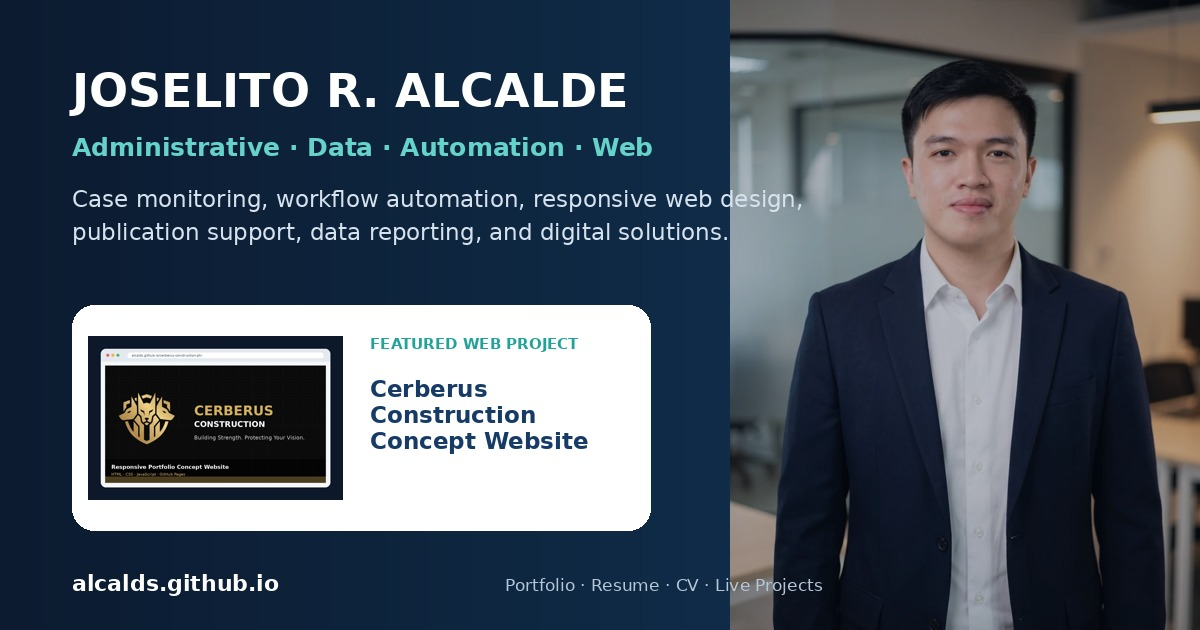
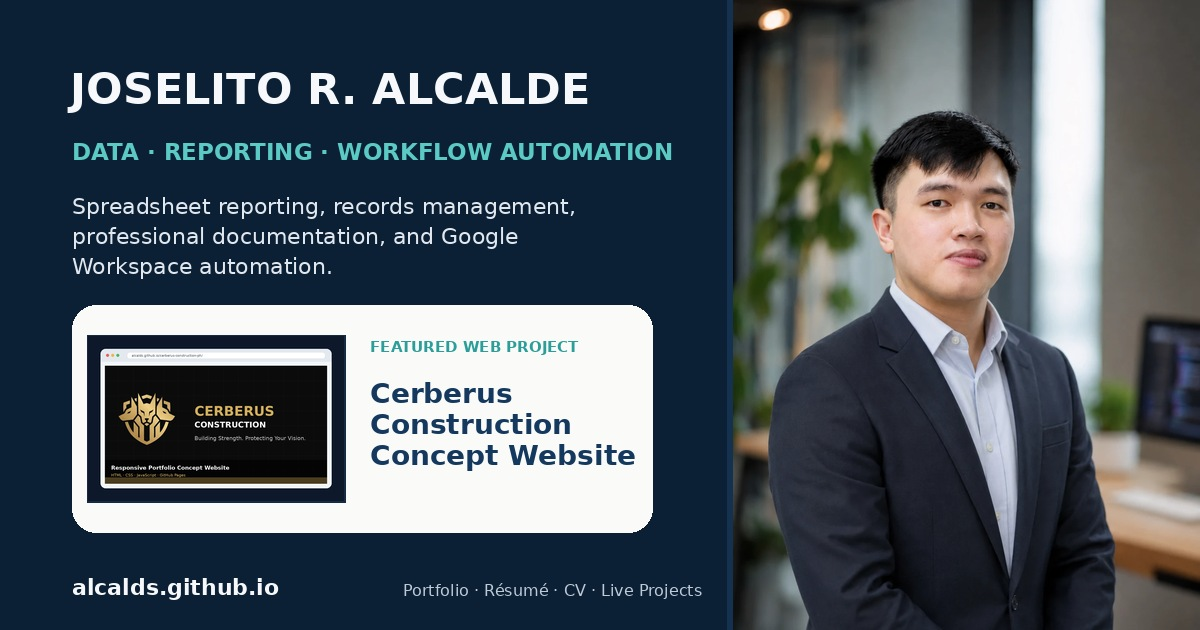
Reposition portfolio for data reporting and workflow automation

diff --git a/index.html b/index.html
@@ -4,17 +4,17 @@
 <head>
 <meta charset="utf-8"/>
 <meta content="width=device-width, initial-scale=1" name="viewport"/>
-<meta content="Portfolio of Joselito R. Alcalde - an administrative, case-monitoring, data, automation, responsive web, design, AI, and publication-support professional with government experience since January 2019." name="description"/>
+<meta content="Portfolio of Joselito R. Alcalde, a Data, Reporting and Workflow Automation Specialist providing remote operations and administrative support through spreadsheet reporting, records management, professional documentation, and Google Workspace automation." name="description"/>
 <meta content="Joselito R. Alcalde" name="author"/>
 <meta content="#173b67" name="theme-color"/>
-<meta content="Joselito R. Alcalde | Professional Portfolio" property="og:title"/>
-<meta content="Administration, Case Monitoring, Data, Automation, Responsive Web, Design, and Publication Support" property="og:description"/>
+<meta content="Joselito R. Alcalde | Data, Reporting &amp; Workflow Automation" property="og:title"/>
+<meta content="Data reporting, records management, professional documentation, and Google Workspace workflow automation backed by government-service experience." property="og:description"/>
 <meta content="website" property="og:type"/>
 <meta content="https://alcalds.github.io/" property="og:url"/>
 <meta content="https://alcalds.github.io/assets/images/social-preview.jpg" property="og:image"/>
 <meta content="summary_large_image" name="twitter:card"/>
 <link href="https://alcalds.github.io/" rel="canonical"/>
-<title>Joselito R. Alcalde | Professional Portfolio</title>
+<title>Joselito R. Alcalde | Data, Reporting &amp; Workflow Automation</title>
 <link href="assets/favicon.svg" rel="icon" type="image/svg+xml"/>
 <link href="styles.css" rel="stylesheet"/>
 <script defer="" src="script.js"></script>
@@ -26,7 +26,7 @@
   "url": "https://alcalds.github.io/",
   "image": "https://alcalds.github.io/assets/images/joselito-alcalde.webp",
   "email": "mailto:joselitoalcalde@gmail.com",
-  "jobTitle": "Action PNCO - Case Monitoring, Records, Administrative, and Digital Solutions Support",
+  "jobTitle": "Data, Reporting and Workflow Automation Specialist",
   "worksFor": {
     "@type": "Organization",
     "name": "Philippine National Police"
@@ -44,14 +44,17 @@
     "Filipino"
   ],
   "knowsAbout": [
-    "Case monitoring",
-    "Evidence inventory",
     "Data analysis",
-    "Workflow automation",
+    "Spreadsheet reporting",
+    "Microsoft Excel",
+    "Power Query",
+    "Google Workspace automation",
+    "Google Apps Script",
+    "Records management",
+    "Professional documentation",
+    "Compliance monitoring",
+    "Remote operations support",
     "Responsive web design",
-    "Front-end development",
-    "GitHub Pages",
-    "Graphic design",
     "Publication editing"
   ]
 }
@@ -88,10 +91,12 @@
 <div aria-hidden="true" class="hero-orb hero-orb-two"></div>
 <div class="container hero-grid">
 <div class="hero-copy reveal">
-<p class="eyebrow">Administration · Data · Automation · Web · Design</p>
+<p class="eyebrow">Data · Reporting · Workflow Automation</p>
 <h1>Joselito R. <span>Alcalde</span></h1>
-<p class="hero-role">Administrative, Data, Automation, Web, and Digital Solutions Professional</p>
-<p class="hero-description">I combine government-service experience in case monitoring, evidence accountability, documentation, reporting, and case-review support with data analysis, deployed workflow automation, responsive front-end web development, graphic design, AI-assisted productivity, and institutional publication development.</p>
+<p class="hero-role">Data, Reporting and Workflow Automation Specialist</p>
+<p class="hero-support-label">Remote Operations and Administrative Support</p>
+<p class="hero-description">I help organizations organize records, improve spreadsheet reporting, and automate repetitive administrative workflows using Microsoft Excel, Google Workspace, Power Query, and Google Apps Script.</p>
+<p class="hero-secondary">Backed by government-service experience in documentation, case monitoring, records management, compliance support, research, and professional reporting. Additional support is available for responsive website development, presentation design, digital content, and AI-assisted productivity.</p>
 <div class="hero-actions">
 <a class="button button-primary" href="#projects">Explore my work</a>
 <a class="button button-secondary" download="Joselito_Alcalde_Public_Resume.pdf" href="assets/documents/Joselito_Alcalde_Public_Resume.pdf">Download résumé</a>
@@ -104,12 +109,12 @@
 <span>Government service</span>
 </div>
 <div>
-<strong>2 Live</strong>
-<span>Responsive web projects</span>
+<strong>Excel + Power Query</strong>
+<span>Data and reporting</span>
 </div>
 <div>
-<strong>3</strong>
-<span>Book and manual projects</span>
+<strong>Google Apps Script</strong>
+<span>Workflow automation</span>
 </div>
 </div>
 </div>
@@ -131,25 +136,20 @@
 <div class="container about-grid">
 <div class="section-heading reveal">
 <p class="section-kicker">About me</p>
-<h2>A practical professional who connects people, documents, data, and technology.</h2>
+<h2>I combine operational experience with data and automation.</h2>
 </div>
 <div class="about-copy reveal">
-<p>
-            I have worked under the Philippine National Police since January 2019 as an Action PNCO
-            assigned to case-monitoring work. My responsibilities include monitoring case status and
-            disposition, maintaining case and seized-evidence records, monitoring documentation on the
-            destruction of seized drug evidence, supporting the evaluation of dismissed drug cases,
-            and preparing reports and data-driven presentations.
-          </p>
-<p>Alongside my government work, I develop practical digital solutions using spreadsheets, Google Apps Script, responsive HTML, CSS, JavaScript, GitHub Pages, design applications, AI platforms, collaboration tools, and content-management systems. I have built and published a professional portfolio and a construction-company concept website. I am open to Philippine-based and international remote opportunities where I can improve processes, reporting, documentation, websites, digital content, and user experience.</p>
+<p>I am a data, reporting, and workflow automation professional with government-service experience since 2019. My work involves monitoring records, validating information, consolidating reports, preparing formal documentation, maintaining accountability systems, and presenting data for management use.</p>
+<p>I develop practical solutions using Microsoft Excel, Power Query, Google Sheets, Gmail, Google Drive, and Google Apps Script. My goal is to improve the accuracy, organization, visibility, and efficiency of recurring administrative processes.</p>
+<p>I also provide supporting digital services involving responsive websites, presentation design, research, professional documents, and AI-assisted productivity.</p>
 <div class="value-list">
-<span>Accurate documentation</span>
-<span>Process improvement</span>
-<span>Data-driven reporting</span>
-<span>Case review support</span>
-<span>Evidence accountability</span>
-<span>Creative problem-solving</span>
-<span>Responsible use of AI</span>
+<span>Data accuracy</span>
+<span>Report consolidation</span>
+<span>Workflow improvement</span>
+<span>Records organization</span>
+<span>Compliance monitoring</span>
+<span>Google Workspace automation</span>
+<span>Professional documentation</span>
 <span>Confidentiality and discretion</span>
 </div>
 </div>
@@ -159,39 +159,39 @@
 <div class="container">
 <div class="section-heading centered reveal">
 <p class="section-kicker">Capabilities</p>
-<h2>Multiple skill areas, organized around useful outcomes.</h2>
-<p>I do not simply list software. I use tools to produce clear documents, reliable data, working systems, and professional digital materials.</p>
+<h2>Core services focused on information, reporting, and workflow improvement.</h2>
+<p>My primary capabilities center on accurate data, organized records, useful reports, and practical automation. Web, design, and AI-assisted tools provide additional digital support.</p>
 </div>
 <div class="capability-grid">
 <article class="capability-card reveal">
 <span class="capability-number">01</span>
-<h3>Administrative and Documentation Support</h3>
-<p>Professional memoranda, reports, correspondence, records, research, presentations, compliance tracking, and organized file management.</p>
+<h3>Data Analysis and Reporting</h3>
+<p>Data cleaning, validation, consolidation, spreadsheet reporting, PivotTables, Power Query workflows, dashboards, statistics, and management presentations.</p>
 </article>
 <article class="capability-card reveal">
 <span class="capability-number">02</span>
-<h3>Case Monitoring and Evidence Accountability</h3>
-<p>Case-status tracking, seized-evidence inventory, drug-evidence destruction monitoring, dismissed-case evaluation support, and report consolidation.</p>
+<h3>Workflow Automation</h3>
+<p>Google Apps Script solutions for Gmail, Google Drive, Google Sheets, automated file organization, communication tracking, recurring workflows, and administrative process improvement.</p>
 </article>
 <article class="capability-card reveal">
 <span class="capability-number">03</span>
-<h3>Data Analysis and Reporting</h3>
-<p>Data cleaning, matching, validation, consolidation, PivotTables, Power Query workflows, dashboards, statistics, and management presentations.</p>
+<h3>Records and Operations Support</h3>
+<p>Structured records management, compliance monitoring, case or project tracking, document classification, deadline tracking, file organization, and reporting support.</p>
 </article>
 <article class="capability-card reveal">
 <span class="capability-number">04</span>
-<h3>Workflow Automation</h3>
-<p>Google Apps Script solutions connecting Gmail, Google Drive, and Google Sheets to reduce repetitive document-processing work.</p>
+<h3>Professional Documentation</h3>
+<p>Memoranda, reports, correspondence, research, standard operating procedures, presentations, summaries, and professionally formatted business documents.</p>
 </article>
 <article class="capability-card reveal">
 <span class="capability-number">05</span>
-<h3>Responsive Web Design and Content Management</h3>
-<p>Responsive HTML, CSS, JavaScript, GitHub Pages deployment, WordPress content management, website maintenance, interface layouts, and professional digital content.</p>
+<h3>Website and Digital Content Support</h3>
+<p>Responsive HTML, CSS, JavaScript, GitHub Pages, Wix website design, WordPress content management, website maintenance, and content formatting.</p>
 </article>
 <article class="capability-card reveal">
 <span class="capability-number">06</span>
-<h3>Publishing and Manual Development</h3>
-<p>Final editing, research compilation, content organization, prescribed-template formatting, layout, revision coordination, and final-output review.</p>
+<h3>Design and AI-Assisted Productivity</h3>
+<p>Presentation design, graphics, publication layouts, visual content, research support, and responsible use of AI tools to improve productivity and output quality.</p>
 </article>
 </div>
 </div>
@@ -460,13 +460,9 @@
 <section class="section" id="experience">
 <div class="container experience-grid">
 <div class="section-heading reveal">
-<p class="section-kicker">My experience combines case monitoring, evidence accountability, professional writing, records management, legal and investigation support, data analysis, reporting, publication development, workflow automation, responsive web design, coordination, and practical process improvement.</p>
-<h2>Government, legislative, web, and multidisciplinary support experience.</h2>
-<p>
-            My experience combines case monitoring, evidence accountability, professional writing,
-            records management, legal and investigation support, data analysis, reporting, publication
-            development, coordination, and practical process improvement.
-          </p>
+<p class="section-kicker">Experience</p>
+<h2>Operational experience supported by data, reporting, and automation.</h2>
+<p>My background combines data validation, reporting, records management, workflow automation, professional documentation, compliance support, case monitoring, coordination, and practical process improvement.</p>
 </div>
 <div class="timeline reveal">
 <article class="timeline-item">
@@ -564,22 +560,16 @@
 <div class="container">
 <div class="section-heading centered reveal">
 <p class="section-kicker">Roles I can support</p>
-<h2>Open to opportunities that match my combined skills.</h2>
+<h2>Focused roles in data, operations, reporting, and automation.</h2>
 </div>
 <div class="role-grid reveal">
-<span>Administrative Support</span>
-<span>Documentation and Records</span>
-<span>Case Monitoring and Compliance</span>
-<span>Evidence Records and Inventory</span>
-<span>Reporting and Data Support</span>
-<span>Workflow Automation</span>
-<span>Responsive Website Design</span>
-<span>WordPress and Web Content</span>
-<span>Graphic and Publication Design</span>
-<span>Presentation and Briefing Support</span>
-<span>Research and Technical Writing</span>
-<span>Digital Operations Support</span>
-<span>Front-End Web Development</span></div>
+<span>Data and Reporting Virtual Assistant</span>
+<span>Workflow Automation Virtual Assistant</span>
+<span>Operations Support Specialist</span>
+<span>Spreadsheet and Records Management Assistant</span>
+<span>Google Workspace Automation Assistant</span>
+<span>Documentation and Compliance Support Assistant</span>
+<span>Junior Business Process Automation Assistant</span></div>
 </div>
 </section>
 <section class="section contact-section" id="contact">
@@ -587,7 +577,7 @@
 <div class="section-heading light contact-heading reveal">
 <p class="section-kicker">Contact</p>
 <h2>Let’s discuss how I can contribute.</h2>
-<p>Use the form below for job opportunities, remote work, website or digital-project inquiries, collaboration, or requests for private application documents. The form works on laptops and mobile devices without requiring a configured email application.</p>
+<p>Use the form below for opportunities involving data and reporting, workflow automation, operations support, documentation, records management, website or digital-project support, collaboration, or requests for private application documents.</p>
 </div>
 <div class="contact-layout">
 <aside aria-label="Contact details" class="contact-details reveal">
@@ -642,9 +632,13 @@
 <span>Type of inquiry</span>
 <select id="inquiryType" name="inquiry_type" required="">
 <option value="Job opportunity">Job opportunity</option>
+<option value="Data and reporting support">Data and reporting support</option>
+<option value="Workflow automation support">Workflow automation support</option>
+<option value="Operations and documentation support">Operations and documentation support</option>
 <option value="Request detailed CV">Request detailed CV</option>
+<option value="Website or digital project">Website or digital project</option>
 <option value="Project collaboration">Project collaboration</option>
-<option value="Website or digital project">Website or digital project</option><option value="General inquiry">General inquiry</option>
+<option value="General inquiry">General inquiry</option>
 </select>
 </label>
 <label class="form-field">

diff --git a/script.js b/script.js
@@ -110,9 +110,12 @@ if (inquiryType && contactSubject) {
   inquiryType.addEventListener("change", () => {
     const suggestions = {
       "Job opportunity": "Job Opportunity for Joselito Alcalde",
+      "Data and reporting support": "Data and Reporting Support Inquiry",
+      "Workflow automation support": "Workflow Automation Support Inquiry",
+      "Operations and documentation support": "Operations and Documentation Support Inquiry",
       "Request detailed CV": "Request for Joselito Alcalde's Detailed CV",
-      "Project collaboration": "Project Collaboration Inquiry",
       "Website or digital project": "Website or Digital Project Inquiry",
+      "Project collaboration": "Project Collaboration Inquiry",
       "General inquiry": "General Portfolio Inquiry"
     };
 

diff --git a/styles.css b/styles.css
@@ -287,6 +287,22 @@ ul {
   max-width: 750px;
 }
 
+.hero-support-label {
+  color: var(--primary);
+  font-size: .88rem;
+  font-weight: 900;
+  letter-spacing: .08em;
+  margin: -10px 0 16px;
+  text-transform: uppercase;
+}
+
+.hero-secondary {
+  color: var(--muted);
+  font-size: .94rem;
+  margin-top: 14px;
+  max-width: 750px;
+}
+
 .hero-actions {
   display: flex;
   flex-wrap: wrap;

diff --git a/README.md b/README.md
@@ -1,17 +1,26 @@
-# Joselito R. Alcalde - Professional Portfolio v4
+# Joselito R. Alcalde - Professional Portfolio v5
 
-This version expands the portfolio with a live responsive web project and updated application documents.
+This version completes Step 1 of the portfolio-employability improvement plan by establishing a clear primary specialization.
 
-## Major updates
+## Primary positioning
 
-- Added the Cerberus Construction Concept Website as a featured live project
-- Added a project preview image and links to the live website and source repository
-- Updated the hero, about, capabilities, experience, credentials, roles, and contact content
-- Added responsive web design, front-end development, and GitHub Pages deployment to the portfolio
-- Updated the public resume and added a downloadable public CV
-- Kept private contact details out of the public website and public documents
-- Added a Website or Digital Project option to the contact form
-- Updated the public location to Santa Cruz, Laguna, Philippines
+**Data, Reporting and Workflow Automation Specialist**  
+**Remote Operations and Administrative Support**
+
+The portfolio now leads with data, spreadsheet reporting, records management, professional documentation, operational support, and Google Workspace automation. Website development, design, and AI-assisted productivity remain visible as secondary digital-support capabilities.
+
+## Step 1 updates
+
+- Rewritten browser title, metadata, social-sharing text, and structured professional title
+- Repositioned the hero section around data, reporting, and workflow automation
+- Added Remote Operations and Administrative Support as the supporting role
+- Rewritten the About section to explain the connection between operational experience, data, and automation
+- Reordered and revised capabilities according to their professional priority
+- Reframed the experience introduction around data validation, reporting, records, documentation, and automation
+- Replaced the broad role list with focused data, operations, reporting, and automation roles
+- Added specialized inquiry categories to the contact form
+- Updated the social-sharing preview image
+- Preserved the updated profile photo, dark-mode contact-section correction, projects, résumé and CV downloads, responsive design, and existing functionality
 
 ## Live projects
 
@@ -29,7 +38,7 @@ Upload all files and folders in this package to the root of the `Alcalds.github.
 Suggested commit message:
 
 ```text
-Update portfolio with Cerberus web project and revised resume and CV
+Reposition portfolio for data reporting and workflow automation
 ```
 
 After deployment, refresh the live site with `Ctrl + Shift + R`.
